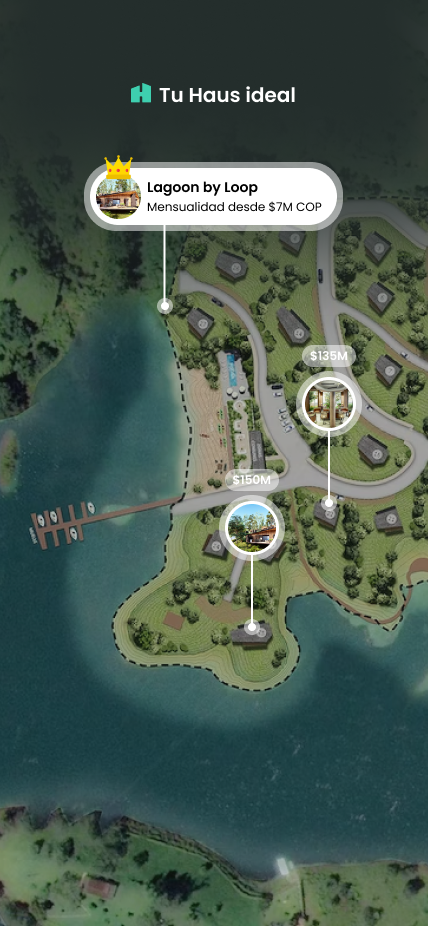
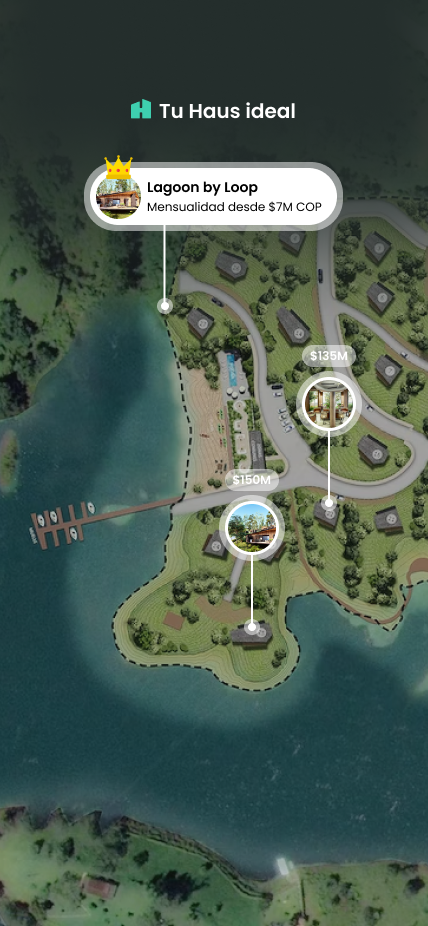
fix: speed & background img

Changed region(s): [[0.3037, 0.0907, 0.6986, 0.1512]]

diff --git a/src/pages/YourIdealHaus/index.jsx b/src/pages/YourIdealHaus/index.jsx
@@ -13,7 +13,7 @@ const YourIdealHaus = () => {
     let html = document.getElementById('text').innerHTML
     let attr = tag.setAttribute('data', html)
     let txt = tag.getAttribute('data')
-    let speed = 80
+    let speed = 70
 
     const typeWriter = () => {
       if (i <= txt.length) {

diff --git a/src/pages/YourIdealHaus/styles.css b/src/pages/YourIdealHaus/styles.css
@@ -6,7 +6,8 @@
 }
 
 .welcome__text p {
-  @apply inline-block overflow-hidden;
+  @apply inline-block overflow-hidden rounded-lg p-2;
+  background-color: rgba(255, 255, 255, 0.2);
 }
 
 .welcome__text p:after {
